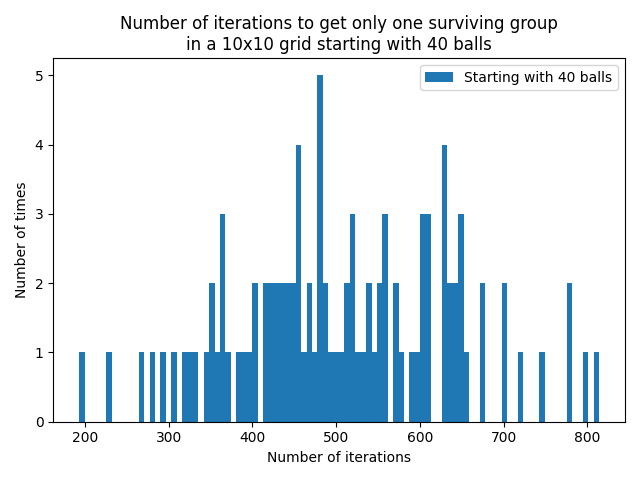
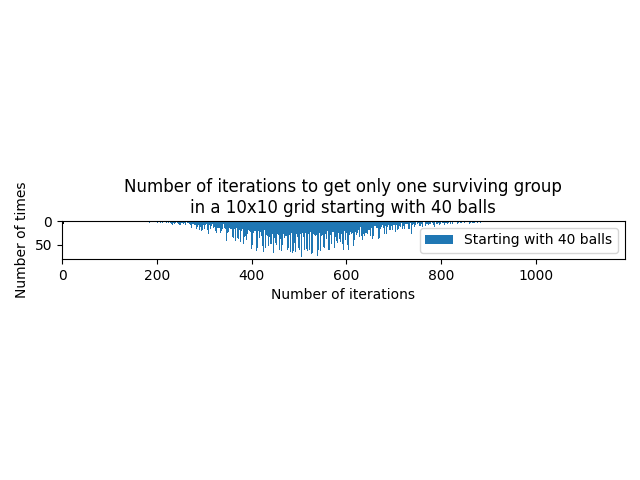
what

diff --git a/random-walker-2D-rock-papper-sizors.py b/random-walker-2D-rock-papper-sizors.py
@@ -18,8 +18,8 @@ from sympy import N
 from tqdm import tqdm
 
 #make an array of 1000 zeros
-size=10
-number_of_balls=50
+size=6
+number_of_balls=20
 #make 2d array
 x1 = np.zeros((size,size))
 
@@ -91,7 +91,7 @@ def moving_and_shecking(new_position,you,beatyou,youbeat,direction,size):
 
     #if the new position is not in the list of all points, delete the ball
     if new_position[0] < 0 or new_position[0] > size-1 or new_position[1] < 0 or new_position[1] > size-1:
-        return("dont move")
+        return("delete")
     #if it is a valid move sheck where it is moving
     else:
         #check if coinsides with itself
@@ -123,7 +123,6 @@ def moving_and_shecking(new_position,you,beatyou,youbeat,direction,size):
 newrock=[]
 newpaper=[]
 newscissors=[]
-what_happened=[]
 def run_this_code(where_points_rock,where_points_paper,where_points_scissors,all_points,limit):
 
     #shoose to move left or right
@@ -142,26 +141,21 @@ def run_this_code(where_points_rock,where_points_paper,where_points_scissors,all
             result =(moving_and_shecking(newpoint,where_points_rock,where_points_paper,where_points_scissors,direction,size))
             if result=="delete":
                 where_points_rock.remove(point)
-                what_happened.append(point)
             elif result=="dont move":
-                what_happened.append([-10,-10])
                 pass
             elif result=="die":
-                what_happened.append([-10,-10])
                 try:
                     where_points_rock.remove(point)
                     where_points_paper.append(newpoint)
                 except:
                     raise Exception("die",newpoint,where_points_paper)
             elif result=="win":
-                what_happened.append([-10,-10])
                 try:
                     where_points_rock.append(newpoint)
                     where_points_scissors.remove(newpoint)
                 except:
                     raise Exception("win",newpoint,where_points_scissors)
             elif result=="move":
-                what_happened.append([-10,-10])
                 try:
                     where_points_rock.remove(point)
                     where_points_rock.append(newpoint)
@@ -187,19 +181,15 @@ def run_this_code(where_points_rock,where_points_paper,where_points_scissors,all
             result =(moving_and_shecking(newpoint,where_points_paper,where_points_scissors,where_points_rock,direction,size))
             if result=="delete":
                 where_points_paper.remove(point)
-                what_happened.append(point)
             elif result=="dont move":
-                what_happened.append([-10,-10])
                 pass
             elif result=="die":
-                what_happened.append([-10,-10])
                 try:
                     where_points_paper.remove(point)
                     where_points_scissors.append(newpoint)
                 except:
                     raise Exception("die",newpoint,where_points_scissors)
             elif result=="win":
-                what_happened.append([-10,-10])
                 try:
                     where_points_paper.append(newpoint)
                     where_points_rock.remove(newpoint)
@@ -207,7 +197,6 @@ def run_this_code(where_points_rock,where_points_paper,where_points_scissors,all
                     raise Exception("win",newpoint,where_points_rock)
 
             elif result=="move":
-                what_happened.append([-10,-10])
                 try:
                     where_points_paper.remove(point)
                     where_points_paper.append(newpoint)
@@ -229,13 +218,10 @@ def run_this_code(where_points_rock,where_points_paper,where_points_scissors,all
             newpoint=[point[0]+direction[0],point[1]+direction[1]]
             result=(moving_and_shecking(newpoint,where_points_scissors,where_points_rock,where_points_paper,direction,size))
             if result=="delete":
-                what_happened.append(point)
                 where_points_scissors.remove(point)
             elif result=="dont move":
-                what_happened.append([-10,-10])
                 pass
             elif result=="die":
-                what_happened.append([-10,-10])
                 try:
                     where_points_scissors.remove(point)
                     where_points_rock.append(newpoint)
@@ -243,7 +229,6 @@ def run_this_code(where_points_rock,where_points_paper,where_points_scissors,all
                     raise Exception("die",newpoint,where_points_rock)
 
             elif result=="win":
-                what_happened.append([-10,-10])
                 try:
 
                     where_points_scissors.append(newpoint)
@@ -252,7 +237,6 @@ def run_this_code(where_points_rock,where_points_paper,where_points_scissors,all
                     raise Exception("win",newpoint,where_points_paper)
 
             elif result=="move":
-                what_happened.append([-10,-10])
                 try:
                     where_points_scissors.remove(point)
                     where_points_scissors.append(newpoint)
@@ -268,11 +252,10 @@ def run_this_code(where_points_rock,where_points_paper,where_points_scissors,all
     return(number_of_steps)
 
 
+"""
 
-number_of_steps=run_this_code(where_points_rock,where_points_paper,where_points_scissors,x1,100)
-print(len(what_happened))
-
-print(number_of_steps)
+run_this_code(where_points_rock,where_points_paper,where_points_scissors,x1)
+"""
 def str_to_list(resulting_points):
     second_resulting_points=[]
     for i in range(len(resulting_points)):
@@ -293,7 +276,7 @@ def str_to_list(resulting_points):
             second_resulting_points.append(newlist)
 
     return(second_resulting_points)
-
+"""
 newrock=str_to_list(newrock)
 newpaper=str_to_list(newpaper)
 newscissors=str_to_list(newscissors)
@@ -324,8 +307,7 @@ plt.plot([size+0.5,-0.5],[-0.5,-0.5],color='r', linestyle='-', linewidth=1)
 rock, = ax.plot([],[],'b*',label="Rock")
 paper, = ax.plot([],[],'r+',label="Paper")
 scissors, = ax.plot([],[],'go',label="scissors")
-l2, = ax.plot([],[],'ro')
-l1, = ax.plot([],[],'o',color="black")
+
 def gen1():
     i = 0
     while(i<len(newrock)):
@@ -349,35 +331,28 @@ def run1(c):
     x_s=[o[0] for o in newscissors[c]]
     y_s=[o[1] for o in newscissors[c]]
     scissors.set_data(x_s,y_s)
-    l2.set_data(what_happened[c][0],what_happened[c][1])
-    ax.set_title('Random Walker: 1D, Step: '+str(c))
-    rock.set_label('Number of rocks: '+str(len(newrock[c])))
-    paper.set_label('Number of papers: '+str(len(newpaper[c])))
-    scissors.set_label('Number of scissors: '+str(len(newscissors[c])))
-    l1.set_label('Total number of balls: '+str(len(newrock[c])+len(newpaper[c])+len(newscissors[c])))
-    ax.legend(loc='upper right')
+
 
     #l2.set_data(what_happened[c][0],what_happened[c][1])
 
-
+plt.legend(loc="upper left")
 #slow down the animation
-ani1 = animation.FuncAnimation(fig,run1,gen1,interval=600,blit=False,repeat=False)
+ani1 = animation.FuncAnimation(fig,run1,gen1,interval=400,blit=False,repeat=False)
 #ani2 = animation.FuncAnimation(fig,run2,gen2,interval=100,blit=False,repeat=False)
 plt.show()
 #save the ani1 and ani2 as a gif
-writergif = animation.PillowWriter(fps=1) 
-ani1.save('rock-paper_sizors.gif',writer=writergif)
+
+ani1.save('plots/rock-paper_scissors.gif', fps=3,writer='imagemagick')
 """
 
 plot_number_of_steps_rock=[]
 plot_number_of_steps_paper=[]
 plot_number_of_steps_scissors=[]
 numberofsteps=10000
-
 for n in tqdm(range(numberofsteps)):
     #make an array of 1000 zeros
-    size=20
-    number_of_balls=size*size/2
+    size=10
+    number_of_balls=40
     #make 2d array
     x1 = np.zeros((size,size))
 
@@ -417,9 +392,7 @@ for n in tqdm(range(numberofsteps)):
     plot_number_of_steps_rock.append(number_of_steps)
     
 
-#calculate the average number of steps
-average_number_of_steps_rock=sum(plot_number_of_steps_rock)/len(plot_number_of_steps_rock)
-print("The average number of steps for rock is",average_number_of_steps_rock)
+
 
 numberofbins=int(len(list(set(plot_number_of_steps_rock))))
 plt.hist(plot_number_of_steps_rock,bins=numberofbins,label="Starting with {} balls".format(number_of_balls))
